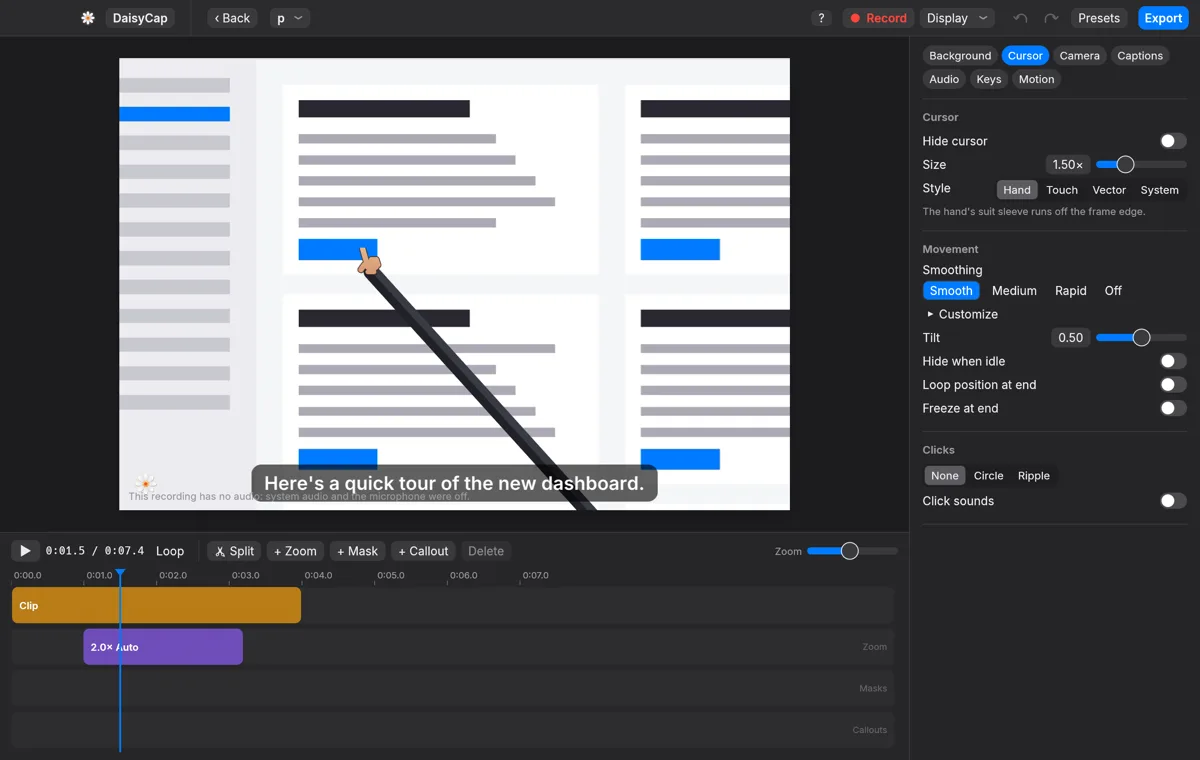
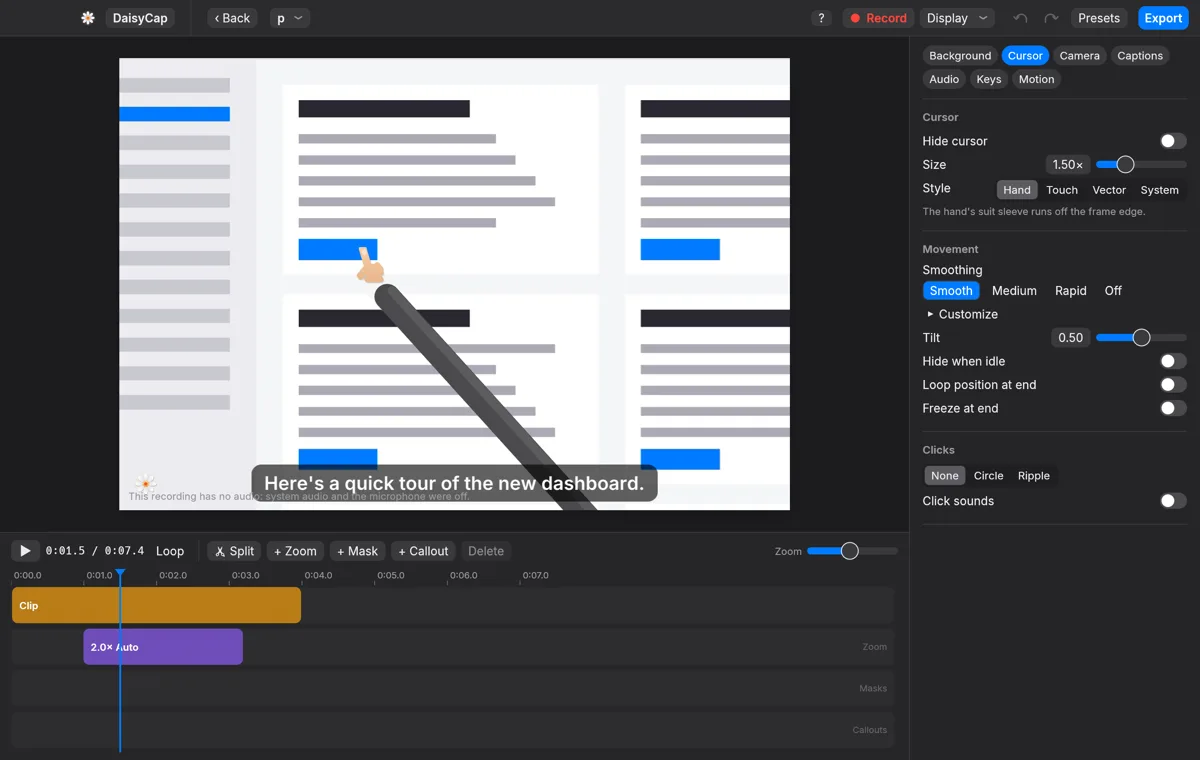
fix(cursor): a chunkier hand, a clean cuff and a grey sleeve

Changed region(s): [[0.2775, 0.3329, 0.4933, 0.6961]]

diff --git a/src/render/art.rs b/src/render/art.rs
@@ -199,9 +199,9 @@ pub fn touch_cursor() -> (Image, Vec2, f64) {
     (Image { width: s, height: s, rgba }, v2(0.5, 0.5), 1.4)
 }
 
-/// The hand's height in sprite units, so the drawn hand matches a standard
-/// arrow's height whatever the sprite's padding is.
-pub const HAND_UNITS: f64 = 20.0;
+/// The hand's height in sprite units that draws at one standard arrow's
+/// height, so the hand comes out about a third larger than the arrow.
+pub const HAND_UNITS: f64 = 15.0;
 
 /// Signed distance to a rounded rect given its min corner and size.
 fn round_rect(p: Vec2, min: Vec2, size: Vec2, r: f64) -> f64 {
@@ -210,10 +210,11 @@ fn round_rect(p: Vec2, min: Vec2, size: Vec2, r: f64) -> f64 {
     (mx * mx + my * my).sqrt() + qx.max(qy).min(0.0) - r
 }
 
-/// The hand skin: a warm hand pointing up and to the left, fingertip at the
-/// hotspot. The sprite ends at the wrist; the cuff and sleeve are the arm
-/// layer's job (see `engine::scene`). Returns the image, the hotspot and the
-/// height relative to a standard arrow.
+/// The hand skin: a flat illustration of a hand pointing up and to the left,
+/// fingertip at the hotspot, with a soft shadow and a nail. The sprite ends at
+/// the wrist; the cuff and sleeve are the arm layer's job (see
+/// `engine::scene`). Returns the image, the hotspot and the height relative to
+/// a standard arrow.
 pub fn hand_cursor() -> (Image, Vec2, f64) {
     const PX: f64 = 6.0;
     let pad = 4.0;
@@ -221,31 +222,36 @@ pub fn hand_cursor() -> (Image, Vec2, f64) {
     let units = v2(17.0, 22.0);
     let (w, h) = (((units.x + 2.0 * pad) * PX).ceil() as u32, ((units.y + 2.0 * pad) * PX).ceil() as u32);
 
-    // The silhouette: finger, palm, three curled knuckles, thumb, wrist stub.
+    // The silhouette: finger up, the fist with curled knuckles on the right,
+    // the thumb alongside, and a wide wrist stub the cuff sits under.
     let hand = |p: Vec2| -> f64 {
-        let mut d = seg_dist(p, tip, v2(6.5, 9.5)) - 2.15;
-        d = d.min(round_rect(p, v2(4.4, 6.4), v2(11.6, 7.6), 3.8));
-        for i in 0..3 {
-            let x = 9.9 + i as f64 * 1.9;
-            d = d.min(seg_dist(p, v2(x, 5.4), v2(x + 1.4, 9.6)) - 2.05);
+        let mut d = seg_dist(p, tip, v2(5.8, 6.4)) - 2.3;
+        d = d.min(round_rect(p, v2(3.4, 5.8), v2(10.4, 7.8), 3.6));
+        for (cx, cy) in [(11.6, 7.0), (13.0, 8.8), (13.2, 10.8)] {
+            d = d.min((p - v2(cx, cy)).length() - 2.1);
         }
-        d.min(seg_dist(p, v2(4.4, 9.6), v2(1.6, 13.4)) - 2.15).min(round_rect(p, v2(5.2, 13.4), v2(8.6, 3.6), 1.9))
+        d.min(seg_dist(p, v2(4.8, 9.2), v2(1.8, 12.8)) - 2.2).min(round_rect(p, v2(4.0, 13.2), v2(11.2, 3.4), 1.7))
     };
-    let skin = [0.906, 0.706, 0.561];
-    let shade = [0.831, 0.604, 0.451];
-    let outline = [0.227, 0.173, 0.133];
+    // A nail on the fingertip.
+    let nail = |p: Vec2| {
+        let q = v2((p.x - 3.9) / 1.3, (p.y + 1.0) / 1.8);
+        q.length() - 1.0
+    };
+    let light = [0.965, 0.804, 0.651];
+    let dark = [0.910, 0.714, 0.545];
+    let nail_col = [0.984, 0.890, 0.808];
     let mut rgba = Vec::with_capacity((w * h * 4) as usize);
     for y in 0..h {
         for x in 0..w {
             let p = v2((x as f64 + 0.5) / PX - pad, (y as f64 + 0.5) / PX - pad);
             let aa = 0.75 / PX;
             let cover = |d: f64| ((-d) / aa + 0.5).clamp(0.0, 1.0);
-            let shadow = cover(hand(p - v2(0.45, 0.85))) * 0.28;
-            let ring = cover(hand(p) - 0.55);
+            let shadow = cover(hand(p - v2(0.35, 0.7))) * 0.18;
             let fill = cover(hand(p));
             let t = ((p.y - tip.y) / 19.0).clamp(0.0, 1.0);
-            let col = [skin[0] + (shade[0] - skin[0]) * t, skin[1] + (shade[1] - skin[1]) * t, skin[2] + (shade[2] - skin[2]) * t];
-            // Composite premultiplied, back to front: shadow, dark ring, skin.
+            let col = [light[0] + (dark[0] - light[0]) * t, light[1] + (dark[1] - light[1]) * t, light[2] + (dark[2] - light[2]) * t];
+            let mark = cover(nail(p)) * fill;
+            // Composite premultiplied, back to front: shadow, skin, nail.
             let mut a = shadow;
             let mut c = [0.0, 0.0, 0.0];
             let over = |c: &mut [f64; 3], a: &mut f64, col: [f64; 3], cov: f64| {
@@ -254,8 +260,8 @@ pub fn hand_cursor() -> (Image, Vec2, f64) {
                 }
                 *a = cov + *a * (1.0 - cov);
             };
-            over(&mut c, &mut a, outline, ring);
             over(&mut c, &mut a, col, fill);
+            over(&mut c, &mut a, nail_col, mark);
             rgba.extend_from_slice(&[(c[0] * 255.0) as u8, (c[1] * 255.0) as u8, (c[2] * 255.0) as u8, (a * 255.0) as u8]);
         }
     }

diff --git a/src/render/mod.rs b/src/render/mod.rs
@@ -669,7 +669,6 @@ impl Renderer {
         {
             let seg = arm.to - arm.from;
             let dir = v2(seg.x / seg.length(), seg.y / seg.length());
-            let cuff_len = arm.width * 0.9;
             let mut shaft = |from: Vec2, to: Vec2, thick: f64, head: f64, color: [f32; 3]| {
                 let (min, max) = (from.min(to), from.max(to));
                 let pad = thick + 2.0;
@@ -682,10 +681,11 @@ impl Renderer {
                 main.push((d, TexId::Dummy));
             };
             let wrist = arm.from;
-            shaft(wrist, wrist + dir * cuff_len, arm.width * 1.25, arm.width * 0.5, [0.949, 0.945, 0.933]);
-            shaft(wrist + dir * (cuff_len * 0.4), arm.to, arm.width, arm.width * 0.4, [0.125, 0.129, 0.153]);
-            let edge = v2(dir.y, -dir.x) * (arm.width * 0.28);
-            shaft(wrist + dir * (cuff_len * 0.5) + edge, arm.to + edge, arm.width * 0.5, arm.width * 0.2, [0.227, 0.231, 0.267]);
+            // A clean white cuff band, slightly proud of the grey sleeve.
+            shaft(wrist, wrist + dir * (arm.width * 0.85), arm.width * 1.06, arm.width * 0.6, [0.965, 0.963, 0.957]);
+            shaft(wrist + dir * (arm.width * 0.75), arm.to, arm.width, arm.width * 0.4, [0.290, 0.290, 0.302]);
+            let edge = v2(dir.y, -dir.x) * (arm.width * 0.30);
+            shaft(wrist + dir * (arm.width * 0.7) + edge, arm.to + edge, arm.width * 0.35, arm.width * 0.2, [0.361, 0.361, 0.373]);
         }
 
         // Click circles under the cursor.

diff --git a/src/engine/scene.rs b/src/engine/scene.rs
@@ -77,9 +77,9 @@ pub struct ArmLayer {
 /// Fixed sleeve angle, degrees below horizontal, down and to the right.
 const ARM_DEG: f64 = 48.0;
 /// Where the wrist sits from the fingertip, in hand heights (x right, y down).
-const ARM_WRIST: Vec2 = v2(0.18, 0.72);
+const ARM_WRIST: Vec2 = v2(0.33, 0.95);
 /// Sleeve thickness in hand heights.
-const ARM_WIDTH: f64 = 0.56;
+const ARM_WIDTH: f64 = 0.72;
 
 #[derive(Clone, Debug, PartialEq)]
 pub struct CircleFx {
@@ -492,7 +492,9 @@ impl Scene {
             if style.cursor.skin == CursorSkin::Hand {
                 // The sleeve: steady, from the wrist past the frame edge, so
                 // the frame always cuts it. It fades with the hand.
-                let hand = cursor::BASE_HEIGHT * style.cursor.size * k * zoom_scale * art::HAND_UNITS / 20.0;
+                // 20 sprite units is the hand's content height, so this is the
+                // hand as drawn, and the sleeve follows it.
+                let hand = cursor::BASE_HEIGHT * style.cursor.size * k * zoom_scale * 20.0 / art::HAND_UNITS;
                 let rot = cv[2].to_radians();
                 let off = ARM_WRIST * hand;
                 let wrist = pos + v2(off.x * rot.cos() - off.y * rot.sin(), off.x * rot.sin() + off.y * rot.cos());
